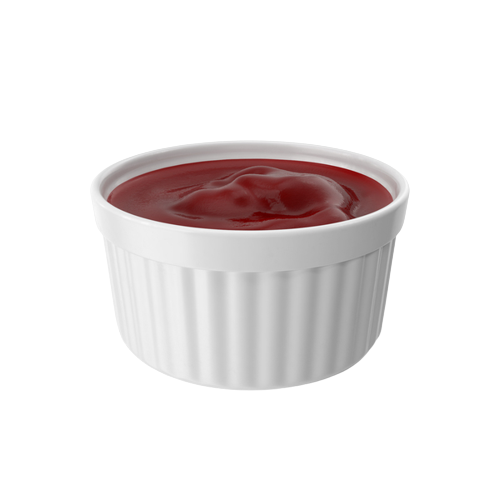
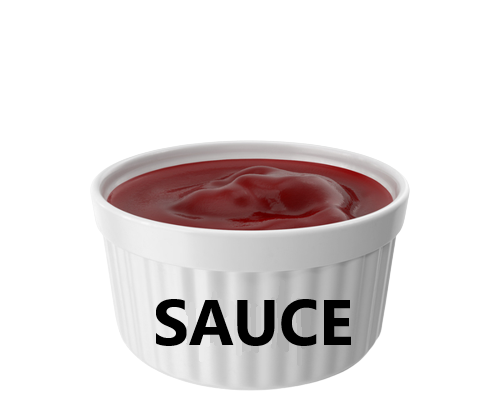
Fix bug with inventory display
Minor changes to level layout, improved sauce asset, added PP window icon

Changed region(s): [[0.18, 0.2609, 0.84, 0.9565]]

diff --git a/libGDX/core/src/group24/piazzapanic/game/GameLoop.java b/libGDX/core/src/group24/piazzapanic/game/GameLoop.java
@@ -107,11 +107,12 @@ public class GameLoop extends Stage {
         pos = new Vector2(0.05, 0.9); // Score counter position.
         gameTimer.setPosition(pos.getAbsoluteX(), pos.getAbsoluteY(), Align.bottomRight);
         this.addActor(gameTimer);
+
         //Create Inventory Panel
         StageAnimation ChefAnimation = new StageAnimation(GameData.chef1Animations.get("IdleFrontSelected"), 6, 6, 1,
-                new Vector2(0.85, 0.85), 50, 100);
+                new Vector2(0.9, 0.85), 50, 100);
         StageAnimation ChefAnimation1 = new StageAnimation(GameData.chef2Animations.get("IdleFrontSelected"), 6, 6, 1,
-                new Vector2(0.8, 0.85), 50, 100);
+                new Vector2(0.85, 0.85), 50, 100);
 
         this.addActor(ChefAnimation);
         this.addActor(ChefAnimation1);
@@ -245,7 +246,7 @@ public class GameLoop extends Stage {
 
         //Draw the player inventory
         if (GameData.player1.holding != null) {
-            curPosition.x = 0.85;
+            curPosition.x = 0.9;
             curPosition.y = 0.85;
             //curPosition = new Vector2(0.85, 0.85);
             GameData.player1.holding.drawItemInventory(curPosition.getAbsoluteX(), curPosition.getAbsoluteY() - 50, 50,
@@ -253,13 +254,13 @@ public class GameLoop extends Stage {
         }
         if (GameData.player2.holding != null) {
             curPosition.y = 0.85;
-            curPosition.x = 0.8;
+            curPosition.x = 0.85;
             GameData.player2.holding.drawItemInventory(curPosition.getAbsoluteX(), curPosition.getAbsoluteY() - 50, 50,
                     50);
         }
         Base.batch.end();
         Base.batch.begin();
-        super.draw();//Draw stations and player
+        super.draw(); //Draw stations and player
         Base.batch.end();
         Base.batch.begin();
         //Draw items

diff --git a/libGDX/core/src/group24/piazzapanic/game/Level.java b/libGDX/core/src/group24/piazzapanic/game/Level.java
@@ -39,12 +39,13 @@ public class Level {
             width = 12;
             height = 6;
 
-            String[] level_string = {"s11111111112",
-            "...........3",
-            "g.dBCF.1...3",
-            "....*......4",
-            "o.t.l.b.m.D.",
-            "..c..p...S.."};
+            String[] level_string =
+               {"s11111111112",
+                "...........3",
+                "g.dBCF11...3",
+                "....*......3",
+                "o.t.l.b....3",
+                ".c.p.D.m.S.4"};
 
 
             grid = new Station[width][height];

diff --git a/libGDX/desktop/src/group24/piazzapanic/DesktopLauncher.java b/libGDX/desktop/src/group24/piazzapanic/DesktopLauncher.java
@@ -10,6 +10,7 @@ public class DesktopLauncher {
 		config.setForegroundFPS(60);
 		config.setTitle("Piazza Panic");
 		config.setResizable(false);
+		config.setWindowIcon("./windowIcon.png");
 		new Lwjgl3Application(new PiazzaPanic(), config);
 	}
 

diff --git a/libGDX/core/src/group24/piazzapanic/ui/StageFactory.java b/libGDX/core/src/group24/piazzapanic/ui/StageFactory.java
@@ -526,8 +526,4 @@ public class StageFactory {
         stage.addActor(ChefAnimation1);
         return stage;
     }
-
-    public static String toString(int customers) {
-        return "" + customers;
-    }
 }
